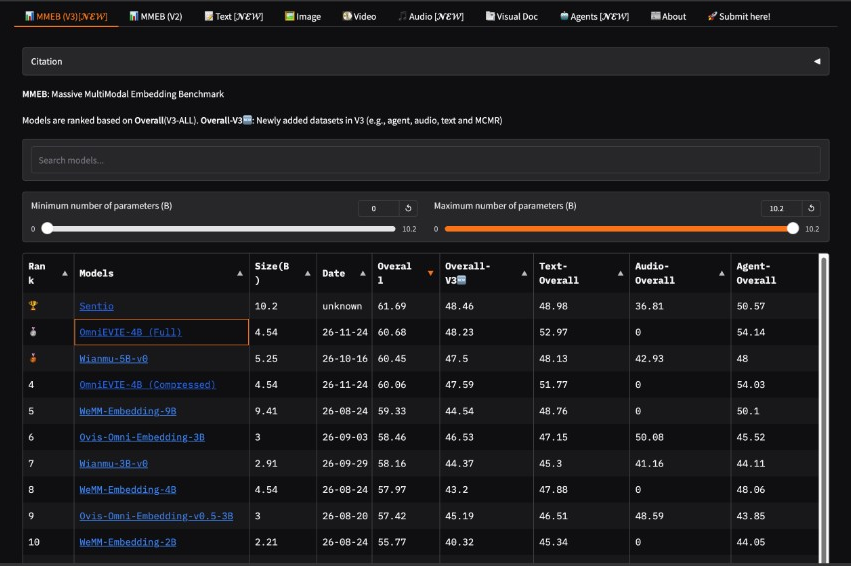
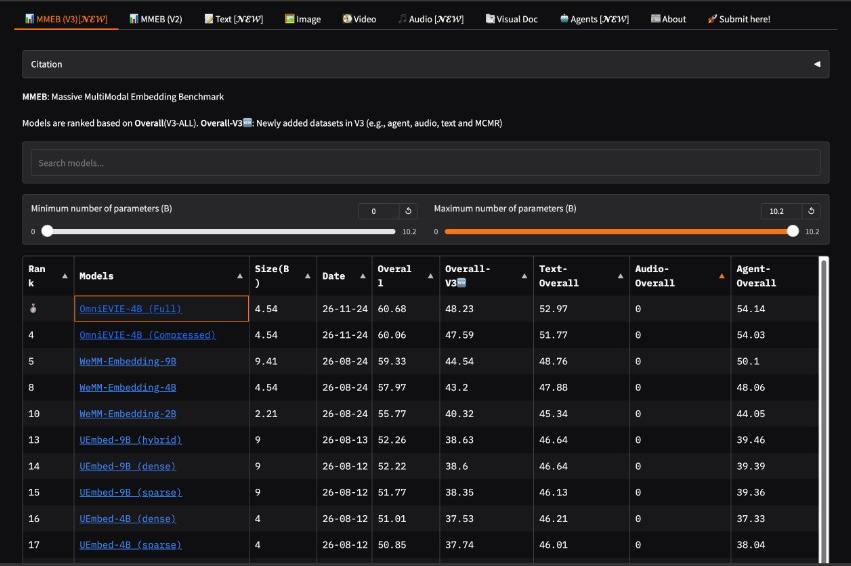
Update MMEB-Leaderboard screenshot to non-audio Top 1 sorted view

diff --git a/README.md b/README.md
@@ -30,7 +30,7 @@ For complete methodology and analysis, read the [**Technical Report (PDF)**](Omn
   <a href="https://huggingface.co/spaces/TIGER-Lab/MMEB-Leaderboard">
     <img src="assets/mmeb_leaderboard.png" width="96%" alt="MMEB-Leaderboard Top 1 (Excluding Audio) — OmniEVIE-4B"/>
   </a><br/>
-  <sub><i>Official <a href="https://huggingface.co/spaces/TIGER-Lab/MMEB-Leaderboard">TIGER-Lab/MMEB-Leaderboard</a> snapshot (2026-11-24). <b>OmniEVIE-4B (Full, 4.54B)</b> and <b>OmniEVIE-4B (Compressed, 4.54B)</b> rank <b>#1 and #2 among all non-audio models</b> (Audio-Overall = 0; #2 and #4 overall across all 190 tasks), surpassing 9.4B baselines while leading both Text (52.97) and Agent (54.14) tracks.</i></sub>
+  <sub><i>Official <a href="https://huggingface.co/spaces/TIGER-Lab/MMEB-Leaderboard">TIGER-Lab/MMEB-Leaderboard</a> snapshot (2026-11-24, sorted by <code>Audio-Overall = 0</code>). <b>OmniEVIE-4B (Full, 4.54B)</b> and <b>OmniEVIE-4B (Compressed, 4.54B)</b> rank <b>#1 and #2 among all non-audio models</b> (#2 and #4 overall across all 190 tasks), surpassing 9.4B baselines while leading both Text (52.97) and Agent (54.14) tracks.</i></sub>
 </p>
 
 ---
